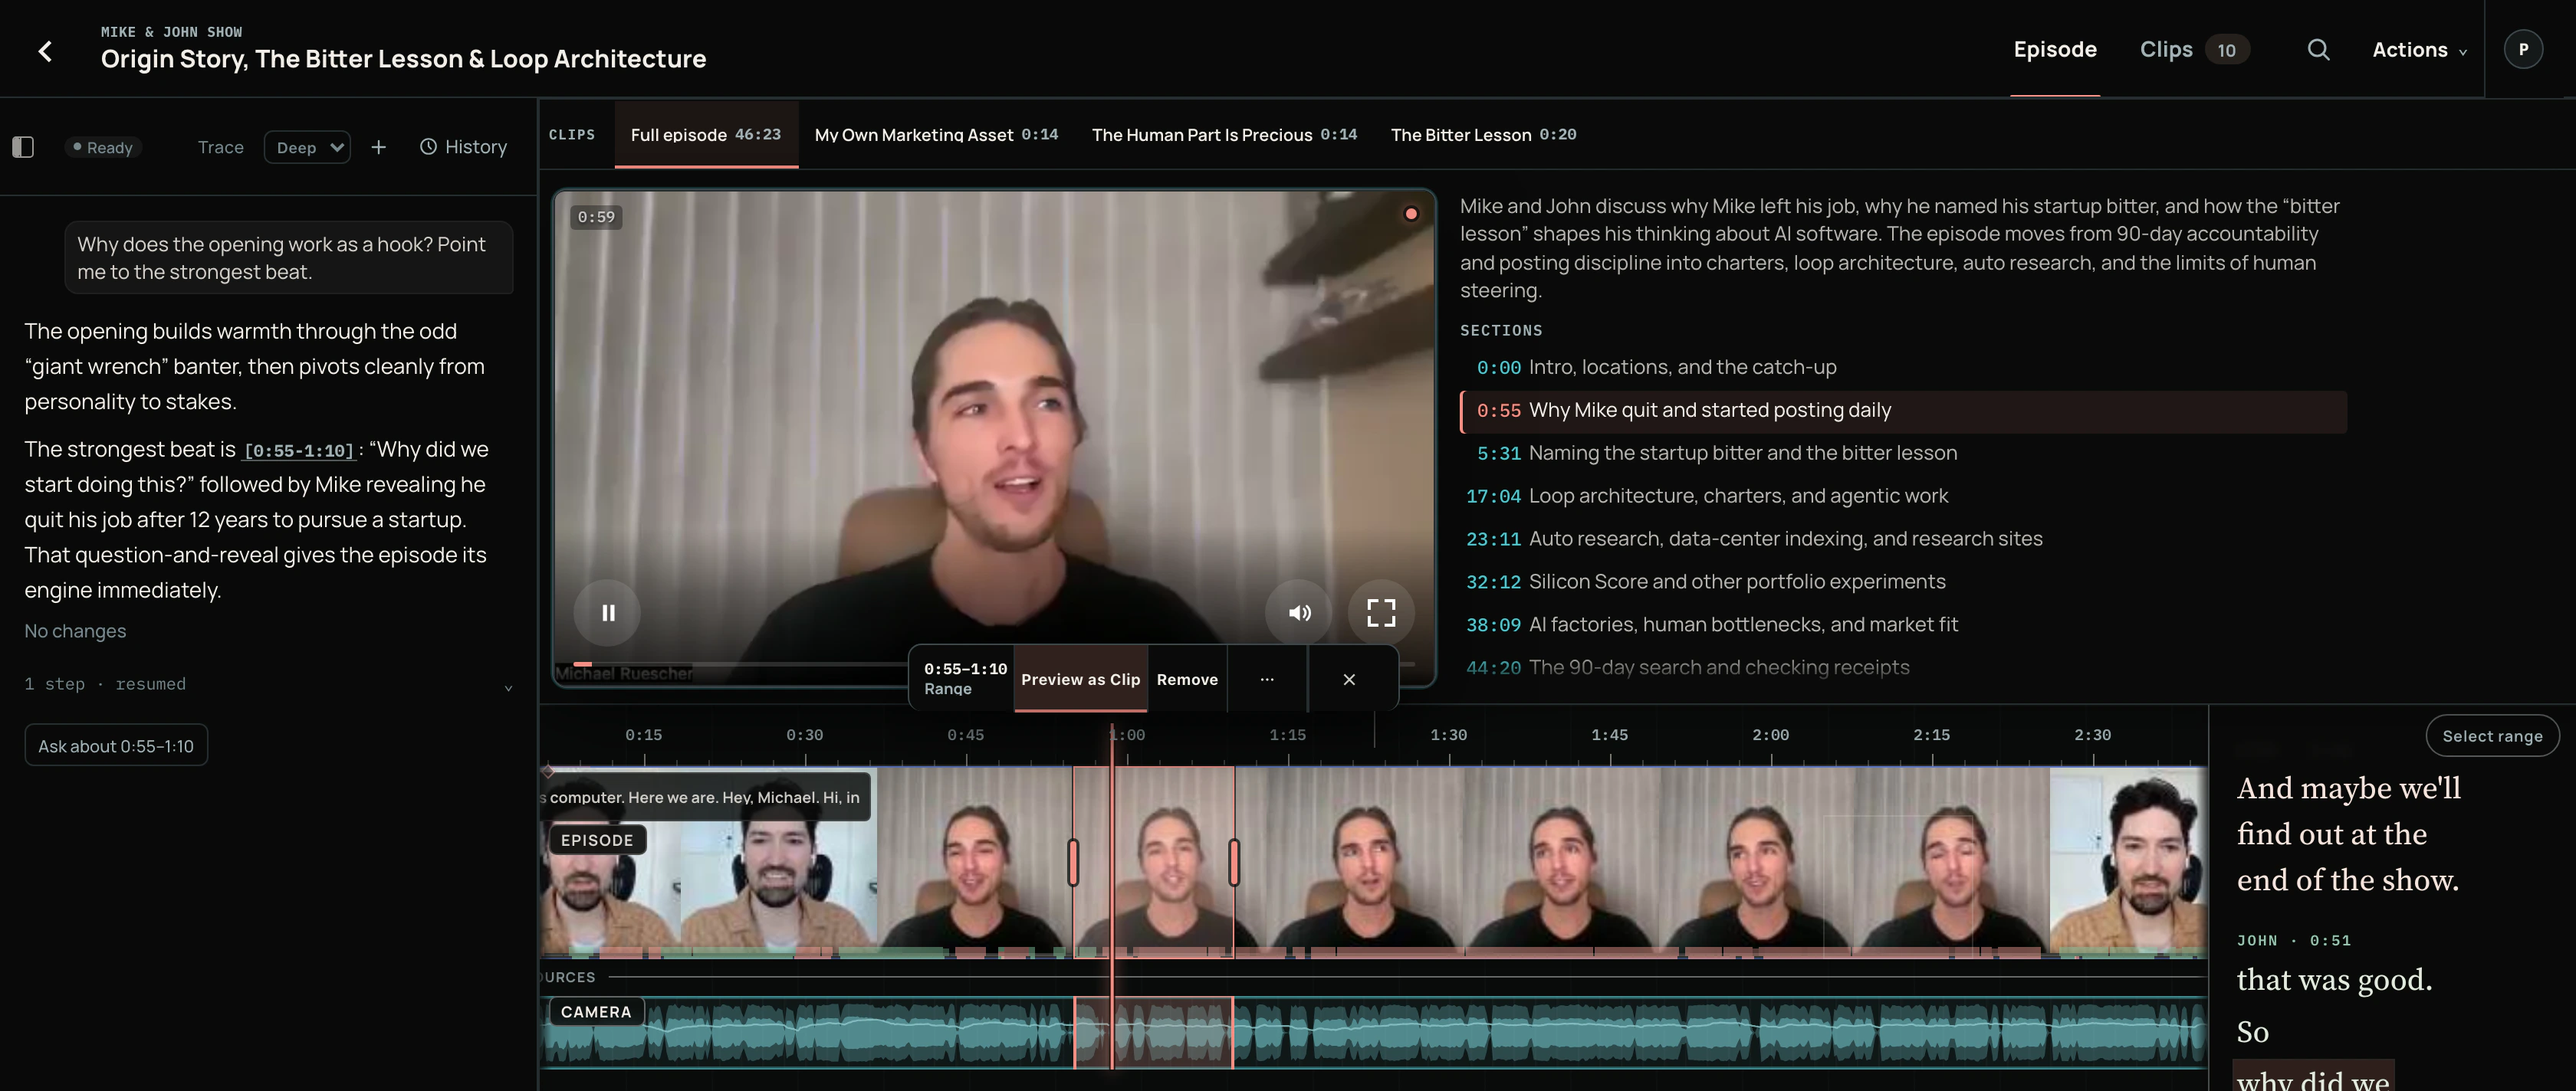
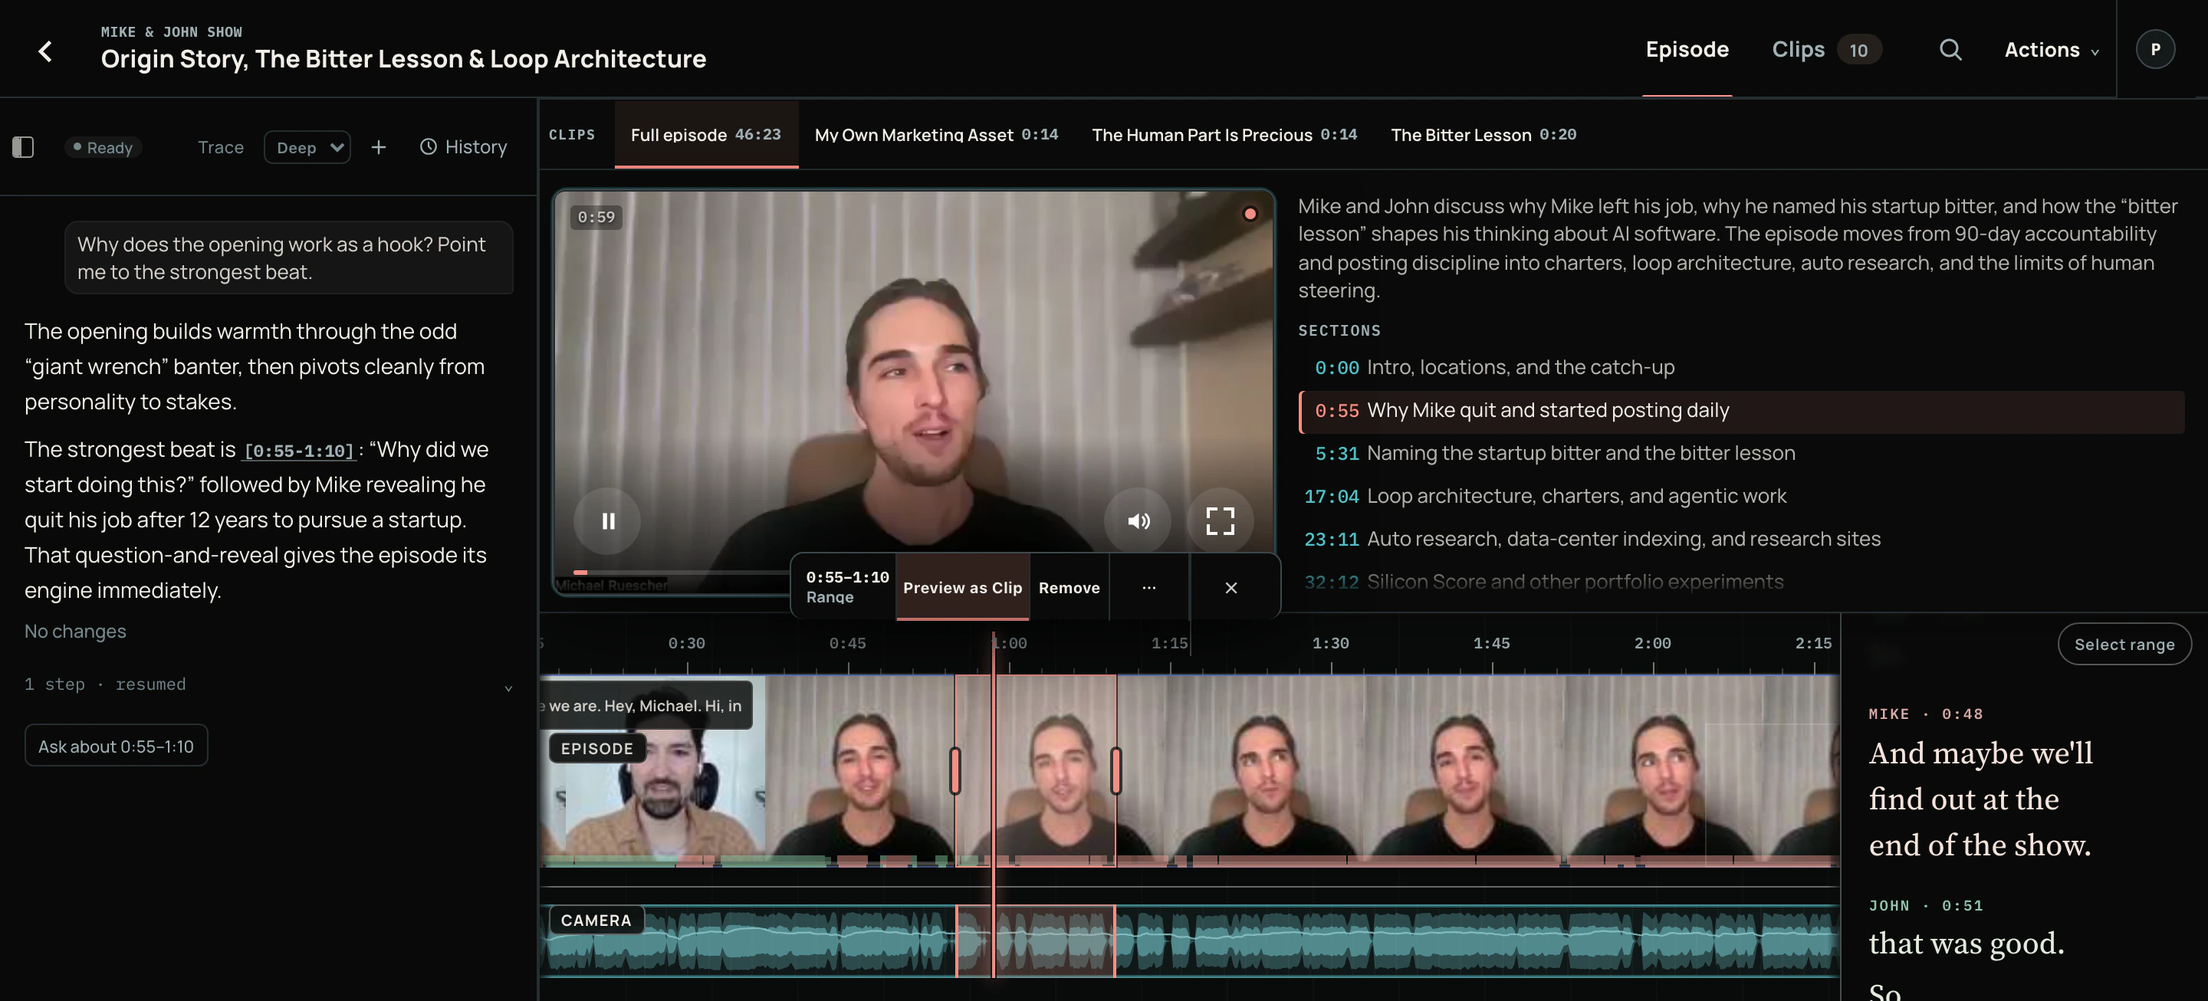
homepage: capture the frame at 1440 viewport for readability
Owner call: the description column doesn't need the width, and a narrower
capture renders ~17% larger at homepage scale — rail, sections, and galley
all legible. Same evidence-chain choreography (cited range selected, playing
inside it). 2880x1306; dims + aspect pin updated.

Claude-Session: https://claude.ai/code/session_01YSSdaPYv2e6EC27KtqbPNz

diff --git a/app/pages/lab/iso4.vue b/app/pages/lab/iso4.vue
@@ -169,7 +169,7 @@ const signupUrl = computed(() => buildSignupUrl({
       </div>
       <figure class="mt-10 md:mt-14">
         <div class="agent-card overflow-hidden rounded-2xl border">
-          <img src="/images/hero/sizzle-editor-3.webp" alt="The BitterClip editor mid-direction on the Mike and John origin episode: the agent citing the strongest beat at 0:55-1:10, the player playing that exact moment, the chapter list lit on Why Mike quit, the full episode on labeled EPISODE and CAMERA tracks, and the transcript at the question that starts it all" class="block w-full" loading="lazy" width="3360" height="1424">
+          <img src="/images/hero/sizzle-editor-3.webp" alt="The BitterClip editor mid-direction on the Mike and John origin episode: the agent citing the strongest beat at 0:55-1:10, the player playing that exact moment, the chapter list lit on Why Mike quit, the full episode on labeled EPISODE and CAMERA tracks, and the transcript at the question that starts it all" class="block w-full" loading="lazy" width="2880" height="1306">
         </div>
         <figcaption class="substrate-caption mt-4 text-sm leading-relaxed text-zinc-500">
           <p>This is the same cut as above. <span class="text-zinc-300">Open it to check the tape.</span></p>

diff --git a/app/pages/index.vue b/app/pages/index.vue
@@ -273,7 +273,7 @@ useHead({
       </div>
       <figure class="mt-10 md:mt-14">
         <div class="agent-card overflow-hidden rounded-2xl border">
-          <DeferredImage src="/images/hero/sizzle-editor-3.webp" alt="The BitterClip editor mid-direction on the Mike and John origin episode: the agent citing the strongest beat at 0:55-1:10, the player playing that exact moment, the chapter list lit on Why Mike quit, the full episode on labeled EPISODE and CAMERA tracks, and the transcript at the question that starts it all" class="block w-full" width="3360" height="1424" />
+          <DeferredImage src="/images/hero/sizzle-editor-3.webp" alt="The BitterClip editor mid-direction on the Mike and John origin episode: the agent citing the strongest beat at 0:55-1:10, the player playing that exact moment, the chapter list lit on Why Mike quit, the full episode on labeled EPISODE and CAMERA tracks, and the transcript at the question that starts it all" class="block w-full" width="2880" height="1306" />
         </div>
         <figcaption class="substrate-caption mt-4 text-sm leading-relaxed text-zinc-500">
           <p>This is the same cut as above. <span class="text-zinc-300">Open it to check the tape.</span></p>

diff --git a/qa/pricing.spec.ts b/qa/pricing.spec.ts
@@ -95,7 +95,7 @@ test.describe('pricing section', () => {
     const editorImage = page.locator('#how img')
     const reservedBox = await editorImage.boundingBox()
     expect(reservedBox).not.toBeNull()
-    expect(reservedBox!.width / reservedBox!.height).toBeCloseTo(3360 / 1424, 2)
+    expect(reservedBox!.width / reservedBox!.height).toBeCloseTo(2880 / 1306, 2)
 
     await page.getByLabel('Primary').getByRole('link', { name: 'Pricing' }).click()
     await expect(editorImage).toHaveAttribute('src', /sizzle-editor-3\.webp/)
